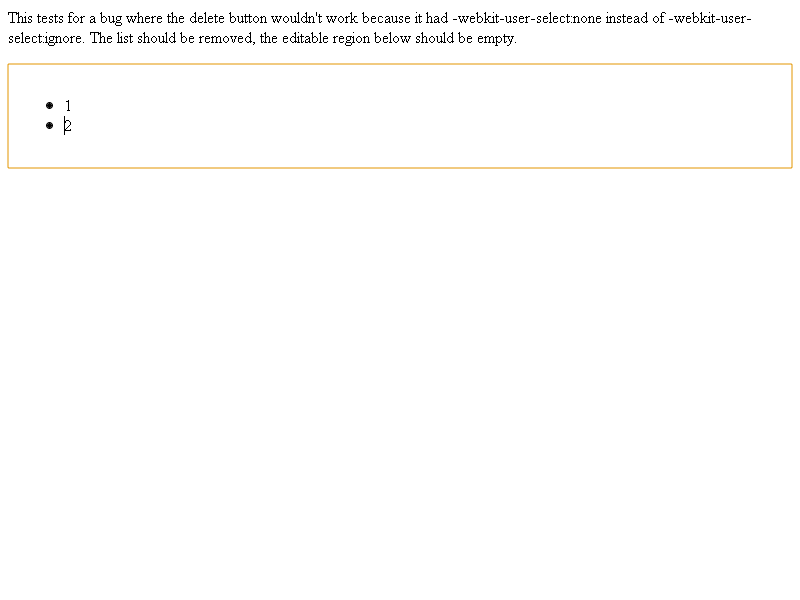
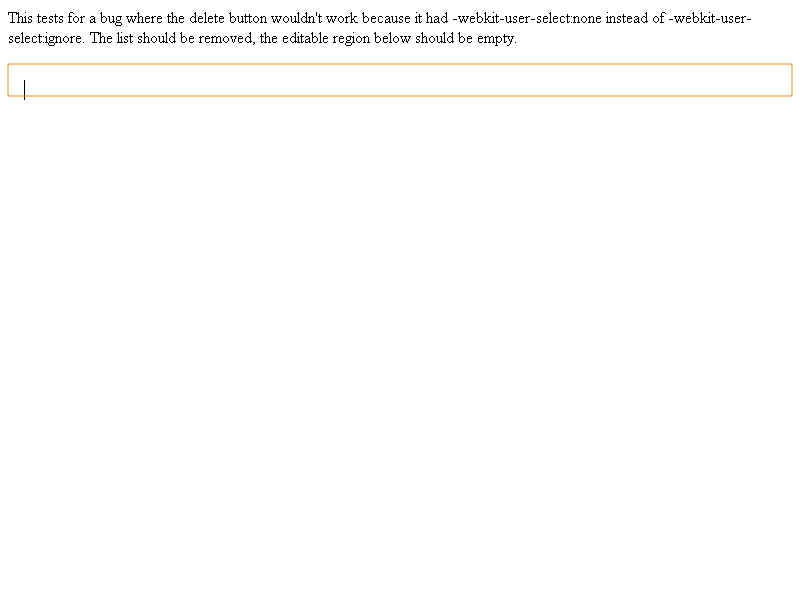
Make the editor deletion UI work in layout test mode and rebase 2 tests that use it.  The only difference is font size.
BUG=http://b/1124435

Review URL: http://codereview.chromium.org/11536

git-svn-id: svn://svn.chromium.org/chrome/trunk/src@5790 0039d316-1c4b-4281-b951-d872f2087c98

Changed region(s): [[0.0, 0.15, 1.0, 0.18], [0.0312, 0.27, 0.9688, 0.3]]

diff --git a/webkit/tools/test_shell/test_shell.cc b/webkit/tools/test_shell/test_shell.cc
@@ -442,32 +442,57 @@ bool GetPreferredExtensionForMimeType(const std::string& mime_type,
 }
 
 std::string GetDataResource(int resource_id) {
-  if (resource_id == IDR_BROKENIMAGE) {
+  switch (resource_id) {
+  case IDR_BROKENIMAGE: {
     // Use webkit's broken image icon (16x16)
     static std::string broken_image_data;
     if (broken_image_data.empty()) {
-      std::wstring path;
+      FilePath path;
       PathService::Get(base::DIR_SOURCE_ROOT, &path);
-      file_util::AppendToPath(&path, L"webkit");
-      file_util::AppendToPath(&path, L"tools");
-      file_util::AppendToPath(&path, L"test_shell");
-      file_util::AppendToPath(&path, L"resources");
-      file_util::AppendToPath(&path, L"missingImage.gif");
-      bool success = file_util::ReadFileToString(path, &broken_image_data);
+      path = path.Append(FILE_PATH_LITERAL("webkit"));
+      path = path.Append(FILE_PATH_LITERAL("tools"));
+      path = path.Append(FILE_PATH_LITERAL("test_shell"));
+      path = path.Append(FILE_PATH_LITERAL("resources"));
+      path = path.Append(FILE_PATH_LITERAL("missingImage.gif"));
+      bool success = file_util::ReadFileToString(path.ToWStringHack(),
+                                                 &broken_image_data);
       if (!success) {
-        LOG(FATAL) << "Failed reading: " << path;
+        LOG(FATAL) << "Failed reading: " << path.value();
       }
     }
     return broken_image_data;
-  } else if (resource_id == IDR_FEED_PREVIEW) {
+  }
+  case IDR_FEED_PREVIEW:
     // It is necessary to return a feed preview template that contains
     // a {{URL}} substring where the feed URL should go; see the code 
     // that computes feed previews in feed_preview.cc:MakeFeedPreview. 
     // This fixes issue #932714.    
     return std::string("Feed preview for {{URL}}");
-  } else {
-    return std::string();
+  case IDR_EDITOR_DELETE_BUTTON:{
+    // Use webkit's delete button image.
+    static std::string delete_button_data;
+    if (delete_button_data.empty()) {
+      FilePath path;
+      PathService::Get(base::DIR_SOURCE_ROOT, &path);
+      path = path.Append(FILE_PATH_LITERAL("webkit"));
+      path = path.Append(FILE_PATH_LITERAL("tools"));
+      path = path.Append(FILE_PATH_LITERAL("test_shell"));
+      path = path.Append(FILE_PATH_LITERAL("resources"));
+      path = path.Append(FILE_PATH_LITERAL("deleteButton.png"));
+      bool success = file_util::ReadFileToString(path.ToWStringHack(),
+                                                 &delete_button_data);
+      if (!success) {
+        LOG(FATAL) << "Failed reading: " << path.value();
+      }
+    }
+    return delete_button_data;
   }
+
+  default:
+    break;
+  }
+
+  return std::string();
 }
 
 GlueBitmap GetBitmapResource(int resource_id) {

diff --git a/webkit/glue/chromium_bridge_impl.cc b/webkit/glue/chromium_bridge_impl.cc
@@ -339,10 +339,13 @@ PassRefPtr<Image> ChromiumBridge::loadPlatformImageResource(const char* name) {
     resource_id = IDR_TICKMARK_DASH;
   } else if (!strcmp(name, "panIcon")) {
     resource_id = IDR_PAN_SCROLL_ICON;
-  } else if (!strcmp(name, "deleteButton") ||
-             !strcmp(name, "deleteButtonPressed")) {
-    NOTREACHED() << "Image resource " << name << " does not exist yet.";
-    return Image::nullImage();
+  } else if (!strcmp(name, "deleteButton")) {
+    if (webkit_glue::IsLayoutTestMode()) {
+      resource_id = IDR_EDITOR_DELETE_BUTTON;
+    } else {
+      NOTREACHED() << "editor deletion UI should be disabled";
+      return Image::nullImage();
+    }
   } else {
     NOTREACHED() << "Unknown image resource " << name;
     return Image::nullImage();

diff --git a/webkit/glue/webkit_resources.h b/webkit/glue/webkit_resources.h
@@ -7,6 +7,11 @@
 #define IDR_PAN_SCROLL_ICON             2003
 #define IDR_TEXTAREA_RESIZER            2004
 
+// The editor delete button is only used in layout tests so the actual
+// resource isn't in webkit_resources.rc.  This resource should not be
+// used outside of layout tests.
+#define IDR_EDITOR_DELETE_BUTTON        2005
+
 #define IDC_ALIAS                       2100
 #define IDC_CELL                        2101
 #define IDC_COLRESIZE                   2102
